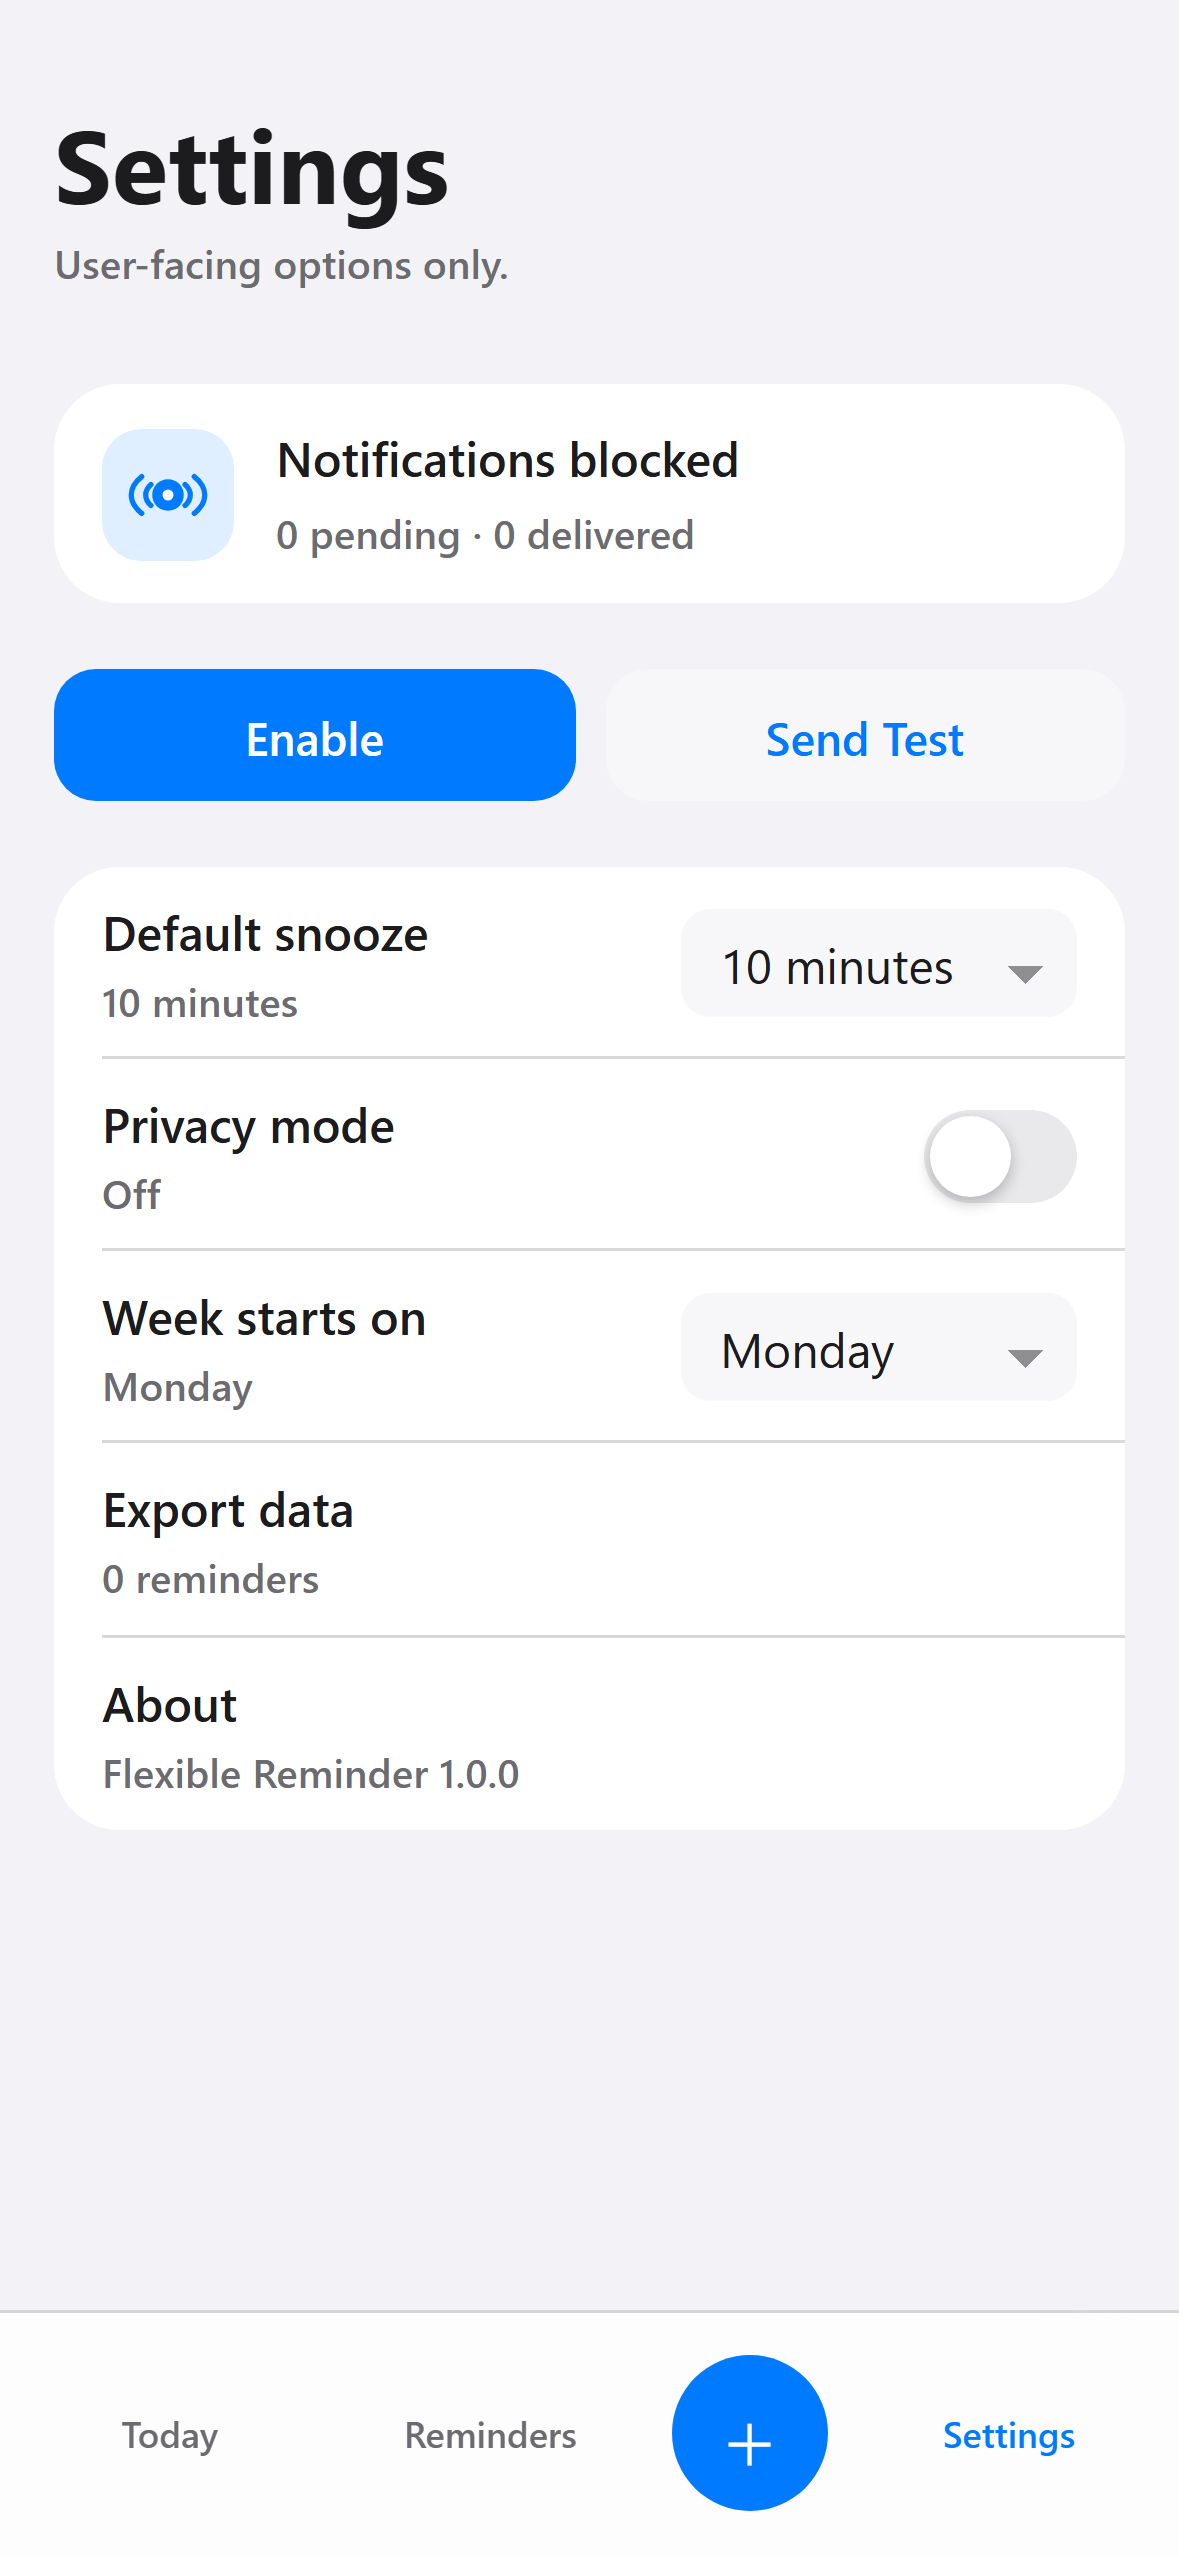
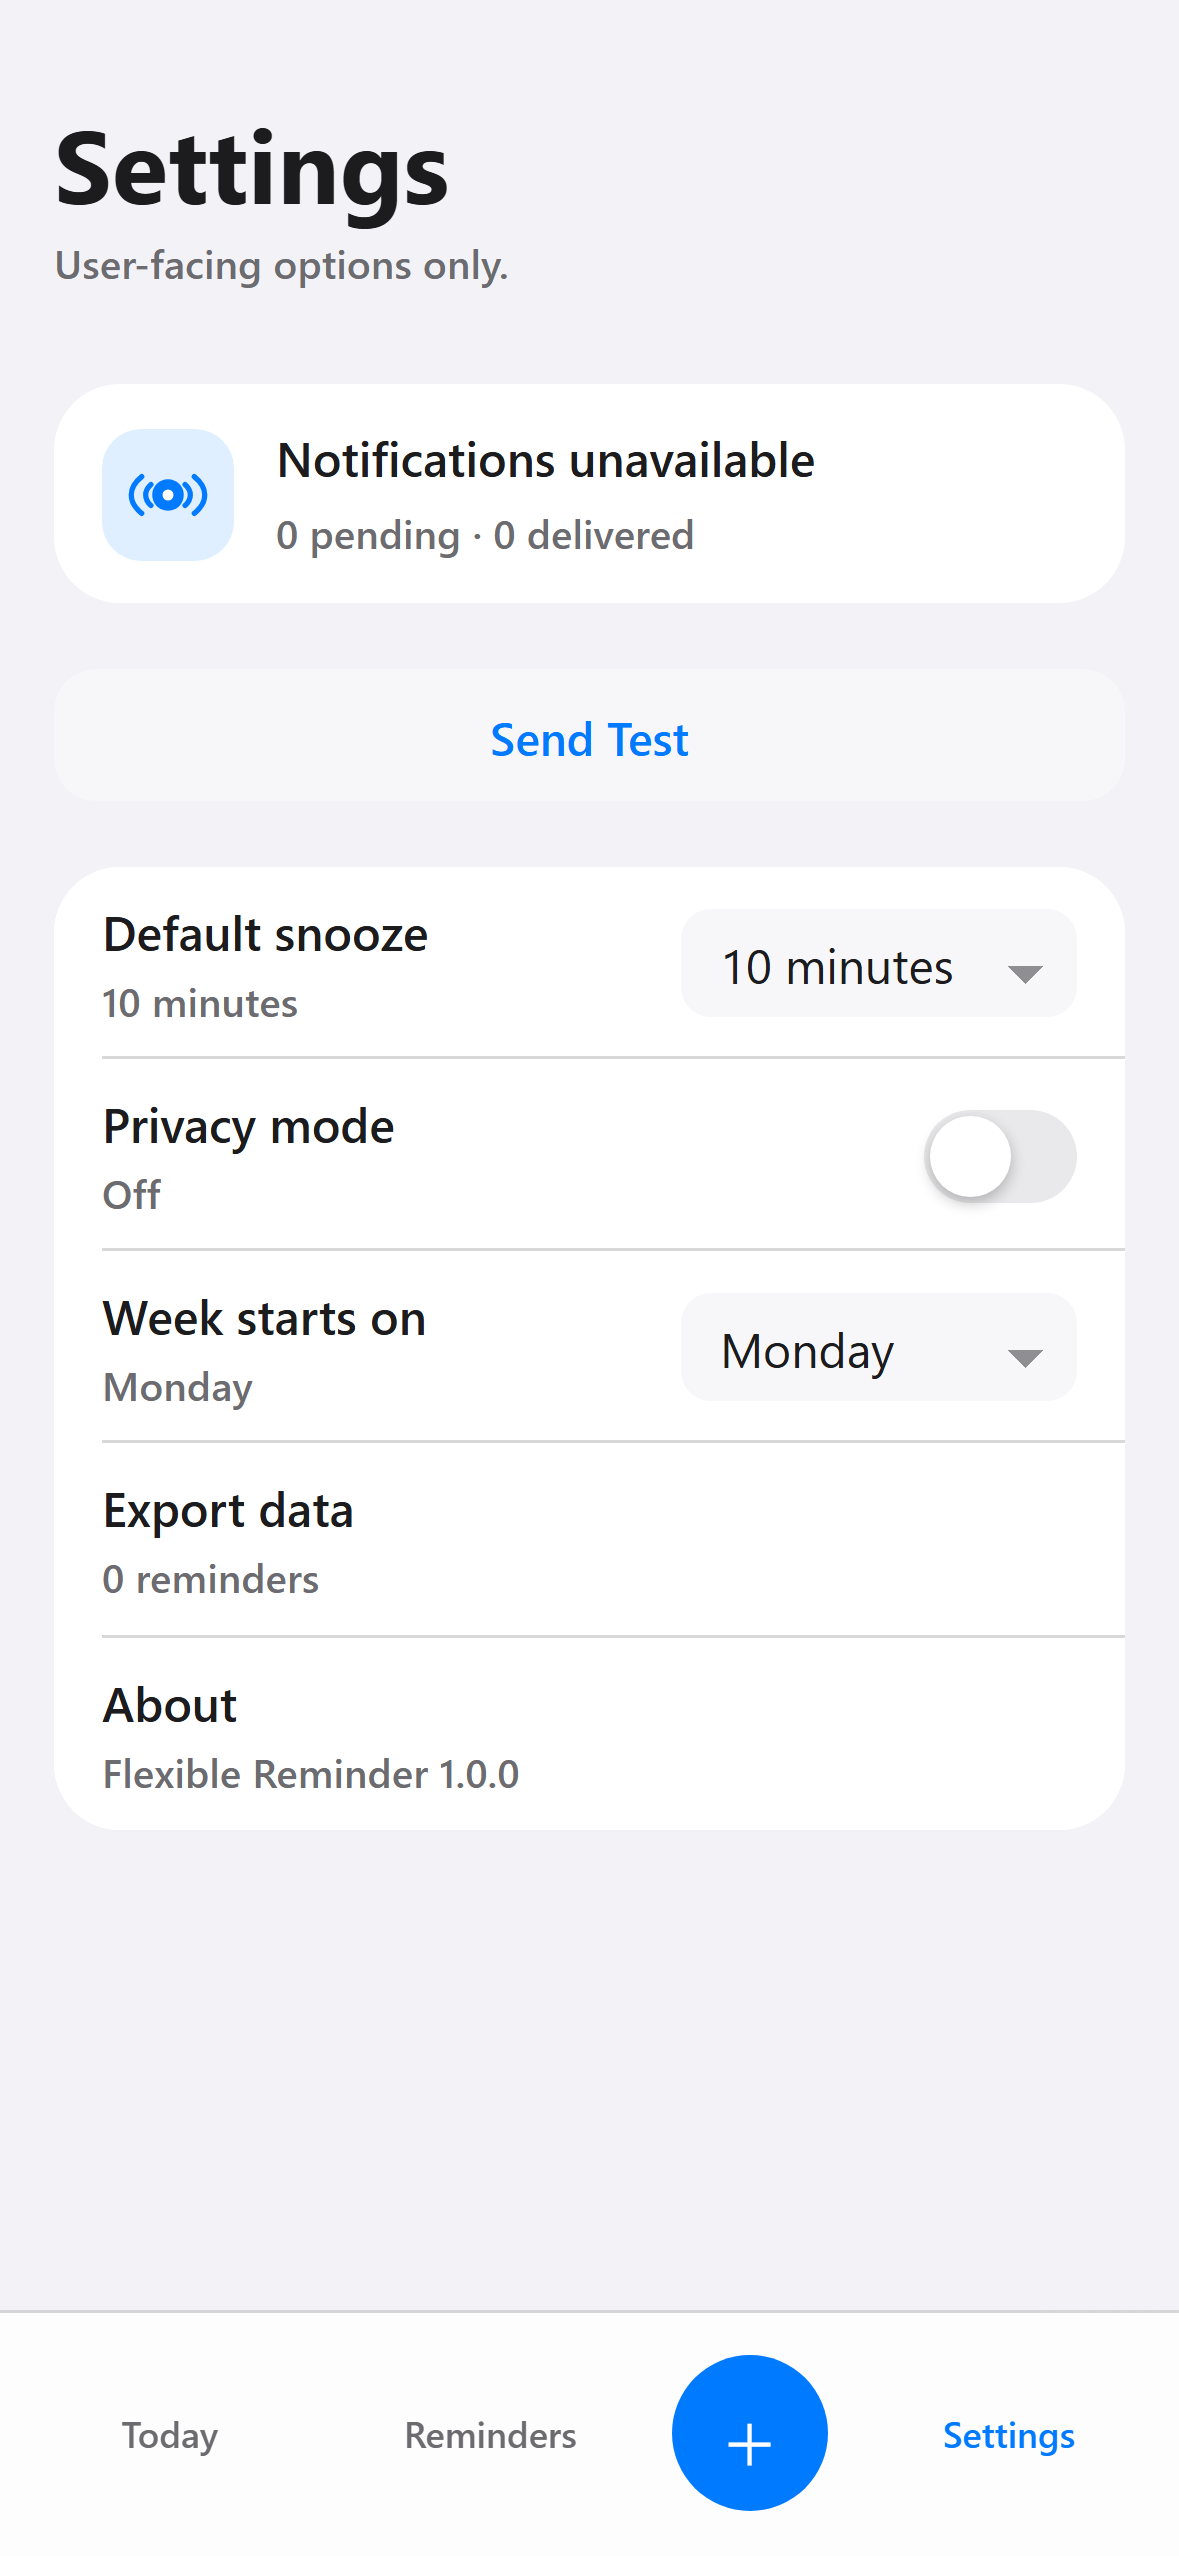
Clarify notification availability status

Changed region(s): [[0.0305, 0.2473, 0.5802, 0.34], [0.4885, 0.1545, 0.7023, 0.1854], [0.6412, 0.2782, 0.8244, 0.3091]]

diff --git a/app/src/App.tsx b/app/src/App.tsx
@@ -71,6 +71,7 @@ const maxRepeatIntervalMinutes = 24 * 60;
 const swipeRevealPixels = 96;
 const swipeOpenThresholdPixels = 44;
 const requiredReminderTextMessage = "Reminder text is required.";
+const startupNotificationPromptDelayMs = 800;
 
 const newReminderTemplate: DraftReminder = {
   id: null,
@@ -137,17 +138,30 @@ function App() {
       setIsLoading(false);
     }
 
-    // Best-effort, after the UI is shown: ask for notification permission (the
-    // OS prompt only appears the first time) and schedule the stored reminders.
-    // Nothing here blocks loading, and failures are non-fatal.
-    void enableNotifications();
+    // Best-effort, after the UI is visible and Capacitor has had a moment to
+    // finish native plugin registration. The iOS prompt only appears once.
+    window.setTimeout(() => {
+      void enableNotifications();
+    }, startupNotificationPromptDelayMs);
   }
 
   async function enableNotifications() {
     try {
-      await requestNotificationPermission();
-      setSettings(await getSettings());
-      await rescheduleAllNotifications();
+      const currentStatus = await getNotificationPermissionStatus();
+      const permissionStatus =
+        currentStatus === "unknown"
+          ? await requestNotificationPermission()
+          : currentStatus;
+
+      setSettings(
+        await updateSettings({
+          notificationPermissionStatus: permissionStatus,
+        }),
+      );
+
+      if (permissionStatus === "granted") {
+        await rescheduleAllNotifications();
+      }
     } catch {
       // Notifications are best-effort; the app still works without them.
     }
@@ -651,14 +665,24 @@ function SettingsScreen({
 
     try {
       const status = await requestNotificationPermission();
+      // Refresh immediately so the permission result can distinguish native
+      // plugin availability before the final queue refresh below.
+      const diagnostics = await getNotificationDiagnostics();
       setNotificationStatus(status);
+      setNotificationDiagnostics(diagnostics);
 
-      if (status === "granted") {
+      if (!diagnostics.available) {
+        setNotificationMessage(
+          "Notifications are not available in this build.",
+        );
+      } else if (status === "granted") {
         await rescheduleAllNotifications();
         await delayForNativeNotificationCommit();
         setNotificationMessage("Notifications enabled. Reminders rescheduled.");
       } else {
-        setNotificationMessage("Notifications are blocked in iOS Settings.");
+        setNotificationMessage(
+          "Notifications are blocked in iOS Settings. If no Notifications row appears, reinstall the app and tap Enable again.",
+        );
       }
 
       await refreshNotificationDiagnostics();
@@ -692,7 +716,9 @@ function SettingsScreen({
   }
 
   const statusLabel =
-    notificationStatus === "granted"
+    notificationDiagnostics?.available === false
+      ? "unavailable"
+      : notificationStatus === "granted"
       ? "allowed"
       : notificationStatus === "denied"
         ? "blocked"
@@ -708,6 +734,10 @@ function SettingsScreen({
     : "Checking scheduled notifications...";
   const isEnabledLabel =
     notificationDiagnostics?.enabled === false ? " · disabled" : "";
+  const canRequestNotifications =
+    notificationDiagnostics !== null &&
+    notificationStatus !== "granted" &&
+    notificationDiagnostics?.available !== false;
 
   return (
     <div className="screen settings-screen">
@@ -730,7 +760,7 @@ function SettingsScreen({
       </section>
 
       <div className="notification-actions">
-        {notificationStatus !== "granted" && (
+        {canRequestNotifications && (
           <button
             type="button"
             className="primary-button"